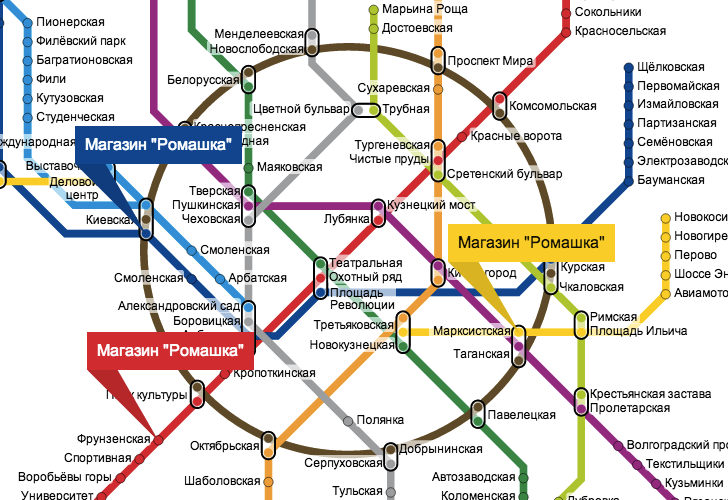
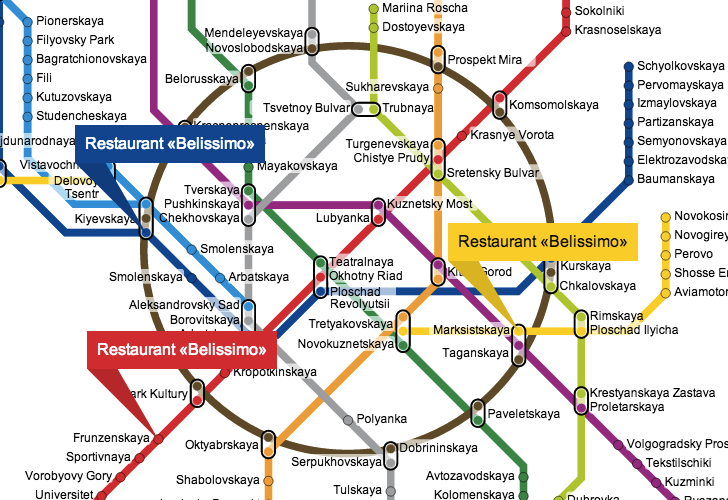
English Moscow Map in the example

diff --git a/examples/stationAnnotate.html b/examples/stationAnnotate.html
@@ -24,13 +24,13 @@
             ymaps.modules.require(['TransportMap']).spread(function (TransportMap) {
                 return TransportMap.create('moscow', 'map', {center: [0, 0]}, {
                     path: '../node_modules/metro-data/',
-                    lang: 'ru'
+                    lang: 'en'
                 }).then(function (map) {
-                    ['Киев', 'Китай', 'Спорт', 'Люблино'].forEach(function (token) {
+                    ['Kiyev', 'Marksist', 'Frunze'].forEach(function (token) {
                         map.stations.search(token).then(function (res) {
                             var station = res[0];
                             map.setCenter(station.getPosition(), 3);
-                            station.annotate({ iconContent: 'Магазин "Ромашка"' });
+                            station.annotate({ iconContent: 'Restaurant «Belissimo»' });
                         });
                     });
                 });
